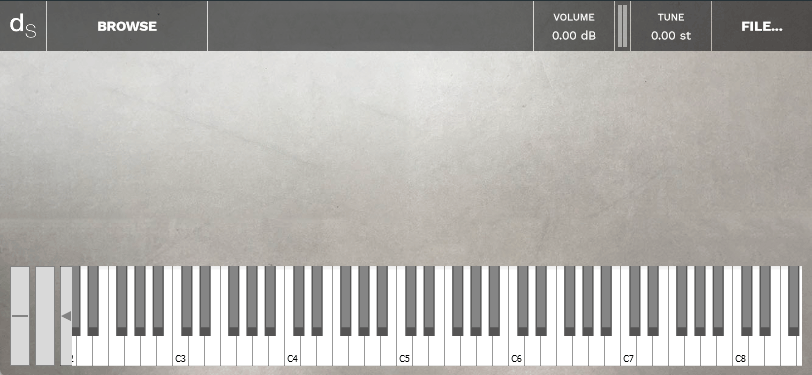
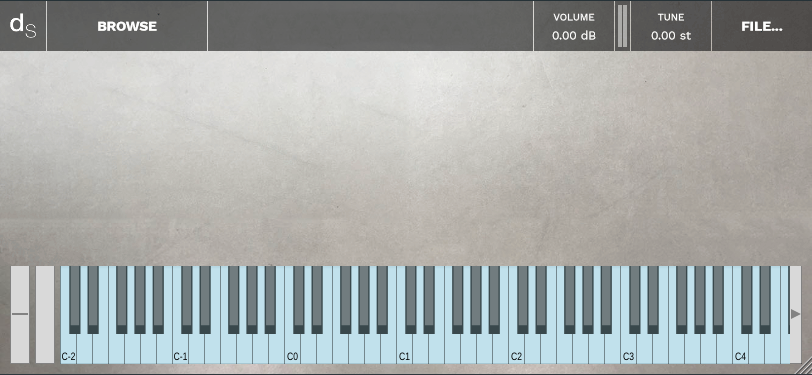
Match preview renderer more closely to DecentSampler

Changed region(s): [[0.0, 0.704, 1.0, 1.0], [0.0, 0.8213, 0.0308, 0.8507]]

diff --git a/samplesmith_app/ui_preview.py b/samplesmith_app/ui_preview.py
@@ -58,11 +58,12 @@ PREVIEW_KNOB_ARC_WIDTH = 4
 PREVIEW_KNOB_ARC_INSET_X = 17
 PREVIEW_KNOB_ARC_INSET_Y = 28
 PREVIEW_KNOB_ARC_SIZE = 38
-PREVIEW_KNOB_TRACK_COLOR = "#bfb9b9"
-PREVIEW_KNOB_VALUE_COLOR = "#252025"
+PREVIEW_KNOB_TRACK_COLOR = "#c6c3c3"
+PREVIEW_KNOB_ARC_TRACK_COLOR = ""
+PREVIEW_KNOB_VALUE_COLOR = "#2a2929"
 PREVIEW_TITLE_FONT_FAMILY = "Arial Narrow"
 PREVIEW_TITLE_FALLBACK_FONT_FAMILY = "Liberation Sans Narrow"
-PREVIEW_PANEL_OUTLINE_COLOR = "#c7b9c7"
+PREVIEW_PANEL_OUTLINE_COLOR = "#bcb4bc"
 PREVIEW_PANEL_LABEL_COLOR = "#555055"
 PREVIEW_BAR_LABEL_COLOR = PREVIEW_PANEL_LABEL_COLOR
 PREVIEW_ANTIALIAS_SCALE = 4
@@ -364,9 +365,9 @@ class DecentSamplerUiPreview:
         canvas_y = self._control_canvas_y(y)
         control_width = UI_BAR_WIDTH
         bar_width = 20
-        bar_height = 34
+        bar_height = 30
         bar_left = canvas_x + (control_width - bar_width) // 2
-        bar_top = canvas_y + 21
+        bar_top = canvas_y + 24
         bar_bottom = bar_top + bar_height
         fill_pixels = int(round((bar_height - 3) * self._control_fraction(control_id)))
         image = self._bar_image(fill_pixels, bar_width, bar_height)
@@ -392,7 +393,7 @@ class DecentSamplerUiPreview:
         image = Image.new("RGBA", (UI_BAR_WIDTH * scale, UI_BAR_HEIGHT * scale), (0, 0, 0, 0))
         draw = ImageDraw.Draw(image)
         left = ((UI_BAR_WIDTH - bar_width) // 2) * scale
-        top = 21 * scale
+        top = 24 * scale
         right = left + bar_width * scale
         bottom = top + bar_height * scale
         draw.rectangle((left, top, right, bottom), outline=PREVIEW_KNOB_TRACK_COLOR, width=scale)
@@ -483,7 +484,7 @@ class DecentSamplerUiPreview:
                     self.canvas.create_arc(knob_left, knob_top, knob_right, knob_bottom, start=PREVIEW_KNOB_ARC_START, extent=value_extent, style="arc", outline=PREVIEW_KNOB_VALUE_COLOR, width=PREVIEW_KNOB_ARC_WIDTH, tags=(tag, "ui-knob")),
                 ]
             )
-        items.append(self.canvas.create_text(canvas_x + UI_KNOB_WIDTH // 2, canvas_y + 10, text=label, fill="#330033", font=("TkDefaultFont", 8), tags=(tag, "ui-knob")))
+        items.append(self.canvas.create_text(canvas_x + UI_KNOB_WIDTH // 2, canvas_y + 10, text=label, fill=PREVIEW_PANEL_LABEL_COLOR, font=("TkDefaultFont", 8), tags=(tag, "ui-knob")))
         self.canvas_items[control_id] = items
         self.canvas.tag_bind(tag, "<ButtonPress-1>", self._start_drag)
         self.canvas.tag_bind(tag, "<B1-Motion>", self._drag_knob)
@@ -496,10 +497,18 @@ class DecentSamplerUiPreview:
         image = Image.new("RGBA", (UI_KNOB_WIDTH * scale, UI_KNOB_WIDTH * scale), (0, 0, 0, 0))
         draw = ImageDraw.Draw(image)
         width = PREVIEW_KNOB_ARC_WIDTH * scale
-        draw.line(self._knob_arc_points(PREVIEW_KNOB_ARC_START, PREVIEW_KNOB_ARC_EXTENT, scale), fill=PREVIEW_KNOB_TRACK_COLOR, width=width, joint="curve")
-        draw.line(self._knob_arc_points(PREVIEW_KNOB_ARC_START, value_extent, scale), fill=PREVIEW_KNOB_VALUE_COLOR, width=width, joint="curve")
+        if PREVIEW_KNOB_ARC_TRACK_COLOR:
+            self._draw_round_arc(draw, PREVIEW_KNOB_ARC_START, PREVIEW_KNOB_ARC_EXTENT, PREVIEW_KNOB_ARC_TRACK_COLOR, width, scale)
+        self._draw_round_arc(draw, PREVIEW_KNOB_ARC_START, value_extent, PREVIEW_KNOB_VALUE_COLOR, width, scale)
         image = image.resize((UI_KNOB_WIDTH, UI_KNOB_WIDTH), Image.Resampling.LANCZOS)
         return ImageTk.PhotoImage(image)
+
+    def _draw_round_arc(self, draw: ImageDraw.ImageDraw, start: int, extent: int, color: str, width: int, scale: int) -> None:
+        points = self._knob_arc_points(start, extent, scale)
+        draw.line(points, fill=color, width=width, joint="curve")
+        radius = width / 2
+        for x, y in (points[0], points[-1]):
+            draw.ellipse((x - radius, y - radius, x + radius, y + radius), fill=color)
 
     def _knob_arc_points(self, start: int, extent: int, scale: int) -> list[tuple[float, float]]:
         # Match Tk Canvas arc geometry, then downsample the supersized result.